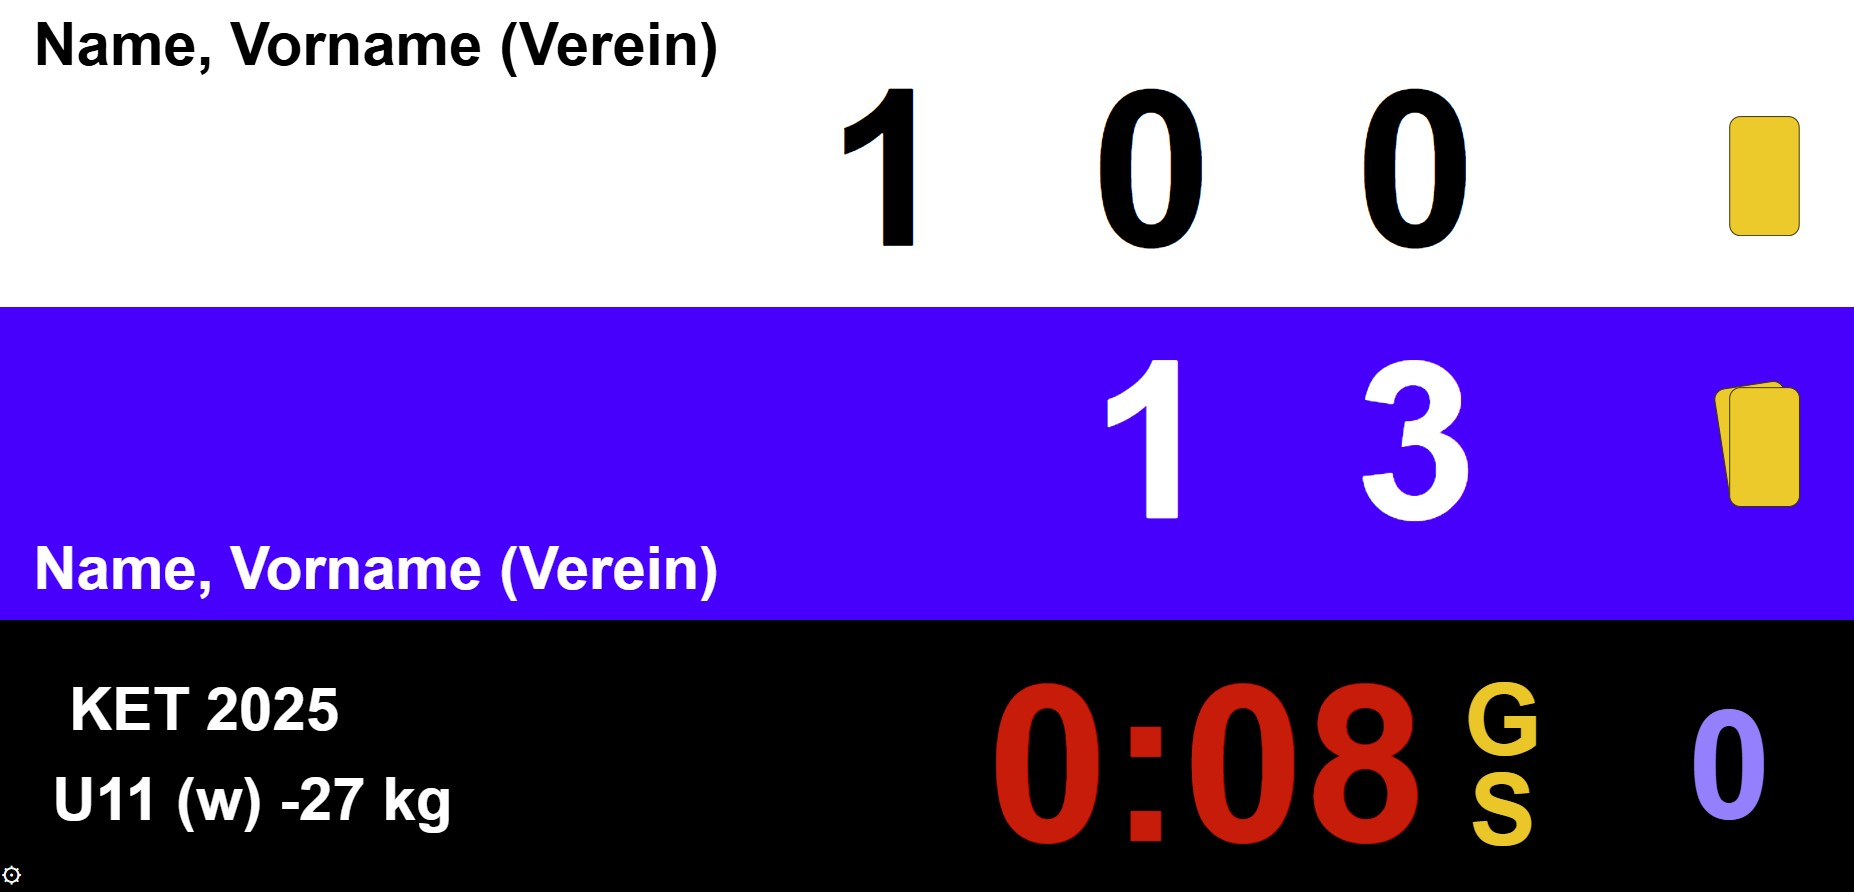
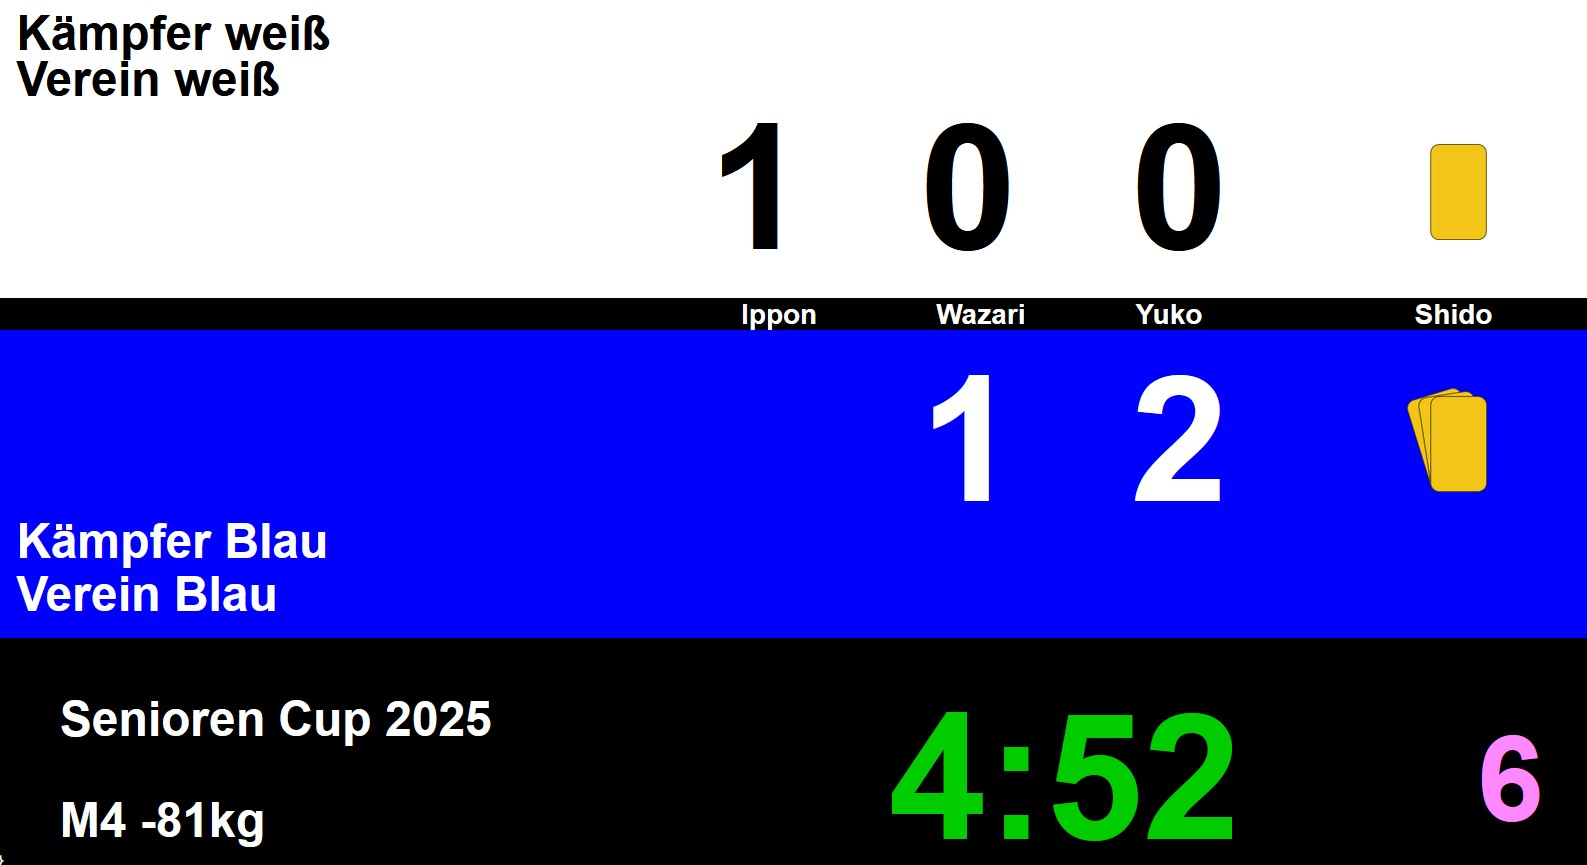
neutral

diff --git a/score.html b/score.html
@@ -50,13 +50,13 @@ Free usage and modification for non-commercial use.
[1 lines of base64/hex data omitted]
 
         // set this variable, if you want to load fighter names from a webserver
-        var useLocalData = true;
+        var useLocalData = false;
         var fightInfoJsonServerUrl = "";
 
         var localData = {
-            "whitename": "Jannis Cors",
+            "whitename": "Max Mustermann",
             "whiteclub": "PSV Bochum",
-            "redname": "Melissa Cors",
+            "redname": "Martin Müller",
             "redclub": "PSV Bochum",
             "groupname": "KET 2025",
             "roundname": "U13 -40kg"
@@ -932,8 +932,8 @@ Free usage and modification for non-commercial use.
         }
     </style>
     <div id="white">
-        <div id="whitename" class="name"><input type="text" value="Weiß" title="Fightername" /></div>
-        <div id="whiteclub" class="club"><input type="text" value="Verein " title="Vereinname" /></div>
+        <div id="whitename" class="name"><input type="text" value="Kämpfer weiß" title="Fightername" /></div>
+        <div id="whiteclub" class="club"><input type="text" value="Verein weiß" title="Vereinname" /></div>
         <div class="points">
             <div id="white_ippon" class="point" title="Ippon">&nbsp;</div>
             <div id="white_wazari" class="point" title="Wazari">0</div>
@@ -948,8 +948,8 @@ Free usage and modification for non-commercial use.
         <div class="score-shido">Shido</div>
     </div>
     <div id="blue">
-        <div id="blueclub" class="club"><input type="text" value="Verein" title="Vereinname" /></div>
-        <div id="bluename" class="name"><input type="text" value="Blau" title="Fightername" /></div>
+        <div id="blueclub" class="club"><input type="text" value="Verein Blau" title="Vereinname" /></div>
+        <div id="bluename" class="name"><input type="text" value="Kämpfer Blau" title="Fightername" /></div>
         <div class="points">
             <div id="blue_ippon" class="point" title="Ippon">&nbsp;</div>
             <div id="blue_wazari" class="point" title="Wazari">0</div>
@@ -958,8 +958,8 @@ Free usage and modification for non-commercial use.
         </div>
     </div>
     <div id="time">
-        <div id="group"><input type="text" value="&nbsp;" title="Groupname" /></div>
-        <div id="round"><input type="text" value="&nbsp;" title="Roundname" /></div>
+        <div id="group"><input type="text" value="&nbsp; Senioren Cup 2025" title="Groupname" /></div>
+        <div id="round"><input type="text" value="&nbsp; M4 -81kg" title="Roundname" /></div>
         <div id="fighttime" title="Fight Time">0:00</div>
         <div id="osaetime" title="Oseakomi Time">00</div>
         <div id="goldenscore">G<br>S</div>
